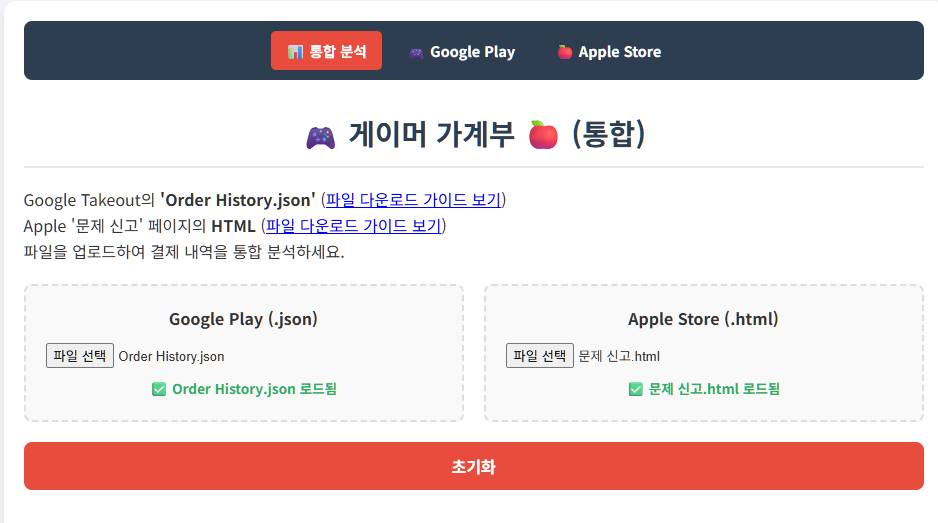
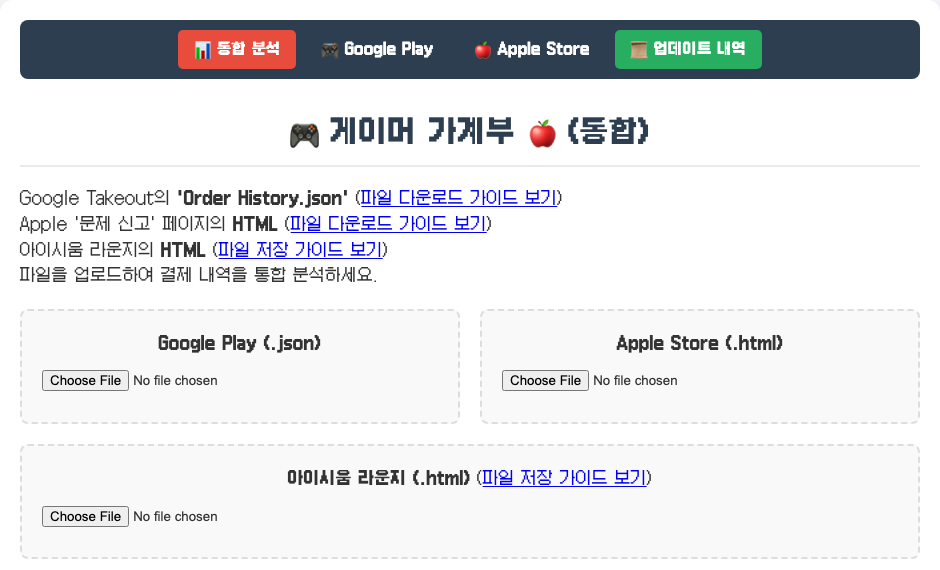
docs: README 최신화 및 미리보기 개선

diff --git a/README.md b/README.md
@@ -1,130 +1,213 @@
-# 🎮 게이머 가계부 (Gamer's Expense Tracker)
+<div align="center">
 
-**게이머 가계부**는 Google과 Apple 양대 스토어의 결제 내역을 한곳에서 통합하여 분석하고 관리할 수 있도록 돕는 웹 애플리케이션입니다. 이제 흩어져 있던 지출 내역을 하나의 대시보드에서 시각적으로 확인하고 자신의 게임 소비 패턴을 손쉽게 파악할 수 있습니다.
+<h1>🎮 게이머 가계부</h1>
+<p><strong>얼마를 썼는지, 어떤 구성품을 모았는지 한눈에.</strong><br>Google Play · Apple Store · 아이시움 라운지의 결제 내역을 한곳에서 확인하세요.</p>
 
-![image](readme01.png)
-![image](readme02.png)
-![image](readme03.png)
+<p>
+  <img src="https://img.shields.io/badge/JavaScript-Vanilla-F7DF1E?logo=javascript&logoColor=222222" alt="Vanilla JavaScript">
+  <img src="https://img.shields.io/badge/결제_파일-브라우저에서_처리-356552" alt="결제 파일은 브라우저에서 처리">
+  <img src="https://img.shields.io/badge/누적_보물창고-BETA-D99A24" alt="누적 보물창고 베타">
+</p>
 
-## ✨ 주요 기능
+<p>
+  <a href="https://ghsgkq.github.io/Gamer-Expense-Tracker/"><strong>🚀 바로 사용하기</strong></a>
+  &nbsp;·&nbsp;
+  <a href="#시작하기">사용 방법</a>
+  &nbsp;·&nbsp;
+  <a href="https://github.com/ghsgkq/Gamer-Expense-Tracker">GitHub</a>
+  &nbsp;·&nbsp;
+  <a href="mailto:ckdgus5820@gmail.com">문의·오류 제보</a>
+</p>
 
-### 📊 **통합 분석 대시보드 (핵심 기능)**
+</div>
 
-  - **하나의 페이지에서 모든 것을\!**: `Google Play(.json)`, `Apple Store(.html)`, 그리고 `아이시움 라운지(.html)` 결제 내역 파일을 한 페이지에 모두 업로드하여 모든 지출을 통합된 데이터로 분석할 수 있습니다.
-  - **플랫폼별 독립 분석**: 상단 탭 전환을 통해 전체/구글/애플/아이시움의 결제 데이터를 탭 이동만으로 손쉽게 전환하며 분리 분석할 수 있습니다. 탭을 이동해도 업로드한 파일은 그대로 유지되며, '초기화' 버튼을 누를 때만 지워집니다.
+---
 
-### 🧾 **상세 분석 기능 (공통)**
+여러 스토어에 흩어진 결제 내역을 파일로 불러오면 **게임별 지출, 월별 변화, 전체 소비 분포**를 확인할 수 있습니다. 트릭컬 리바이브에서는 패키지의 **구성품·아이콘**을 펼쳐 보고, **나의 누적 보물창고**에서 아이템별 합계도 살펴볼 수 있습니다.
 
-  - **💱 다중 통화 지원**:
+**[미리보기](#미리보기) · [주요 기능](#주요-기능) · [트릭컬 전용 기능](#트릭컬-전용-기능) · [개인정보](#개인정보-처리) · [개발 안내](#개발-및-데이터-관리)**
 
-      - 결제 내역에 포함된 원화(₩), 달러($), 엔(¥) 등 다양한 통화를 자동으로 감지합니다.
-      - 감지된 통화 목록이 드롭다운 메뉴로 제공되며, 원하는 통화를 선택하면 모든 요약, 차트, 내역이 해당 통화 기준으로 필터링되어 표시됩니다.
+## 미리보기
 
-  - **📝 사용자 정의 키워드 관리**:
+**🎒 패키지 속 구성품을 모아 보는 나의 누적 보물창고**
 
-      - '기타'로 분류된 항목을 원하는 앱으로 재분류할 수 있도록 사용자가 직접 키워드를 추가하고 관리할 수 있습니다.
-      - 앱 이름과 관련 키워드를 등록하고, 개별 키워드 또는 앱 전체를 삭제할 수 있습니다.
-      - 키워드 목록이 길어질 경우를 대비해 실시간 검색 기능도 제공합니다.
-      - 추가·삭제한 키워드는 브라우저에 자동 저장되어 새로고침 후에도 유지되며, '기본값 복원' 버튼으로 언제든 초기 사전으로 되돌릴 수 있습니다.
+![베타 표시, 주요 재화별 아이콘·누적 수량과 전체 구성품 보기를 제공하는 보물창고](readme02.png)
 
-  - **💰 전체 결제 내역 요약**: 선택된 통화를 기준으로 모든 스토어의 총결제액과 가장 많은 금액을 지출한 '톱 스펜딩 게임'을 한눈에 보여줍니다.
+> 아래 화면을 포함한 README의 스크린샷은 **가상 결제 데이터**로 만든 예시입니다. 실제 개인 결제 파일을 사용하지 않았습니다.
 
-  - **📈 전체 통계 시각화**: 
-    - **소비 추이 (꺾은선/막대)**: 선택된 통화를 기준으로 상위 게임들의 결제액 누적 추이(6개 월 단위 꺾은선) 및 연도별 결제 합계(누적 막대)를 표시합니다.
-    - **🍩 소비 분포 (도넛 차트)**: 지출액 상위 6개 게임의 소비 점유 비중(%)을 보여주며, 가독성을 위해 나머지 군소 게임은 '기타'로 통합 집계하여 시각화합니다.
+<details>
+<summary><strong>📊 파일 업로드와 결제 통계 화면도 보기</strong></summary>
 
-  - **📥 결제 내역 엑셀 내보내기**:
-    - **전체 내역 추출**: 업로드한 모든 플랫폼의 결제 내역을 모아 엑셀 파일(`.xlsx`)로 내보냅니다.
-    - **개별 게임 내역 추출**: 특정 게임 상세 내역 화면에서 현재 보고 있는 게임의 거래 내역만 골라 엑셀 파일로 저장합니다.
-    - **통화별 총액 자동 집계**: 화폐 단위(₩, $, ¥ 등)가 섞여 있어도 왜곡이 없도록 시트 맨 하단에 통화별 합계 요약 행을 자동 추가하며, 텍스트가 잘리지 않도록 열 너비가 자동 최적화됩니다.
+<br>
 
-  - **🔍 게임별 상세 분석**:
+**세 가지 스토어의 파일을 한 페이지에서 불러오기**
 
-      - 월별 결제액 요약 및 상세 내역을 아코디언 UI로 제공합니다.
-      - 월별 지출액 변동 추이를 막대그래프로 시각화합니다.
-      - 상품명 검색 및 최신순 정렬을 지원하는 전체 결제 내역 테이블을 제공합니다.
+![Google Play, Apple Store, 아이시움 라운지 업로드를 지원하는 메인 화면](readme01.png)
 
-  - **⭐ 특정 게임 맞춤 분석 (트릭컬 리바이브)**: '트릭컬 리바이브'를 선택하고 통화가 원화(KRW)일 경우, 주요 과금 상품에 대한 별도 요약 및 전용 필터링 기능을 제공합니다.
+**게임별 지출 흐름과 소비 분포 비교하기**
 
-  - **📦 트릭컬 리바이브 패키지 구성품**: 월별 내역과 전체 결제 내역의 상품명 아래에서 '구성품 보기'를 펼치면 아이템 이름·수량·아이콘을 확인할 수 있습니다.
-    - `product/trickcal-revive/products.json`의 상품명과 매칭하며, Google 결제 상품명의 게임 접미사와 띄어쓰기 차이를 정규화합니다.
-    - 영수증의 `트릭컬 패스1`은 `트릭컬 패스`로, `리바이브 패스`는 `개쩜 패스`로, `리바이브 패스[할인]`은 `개쩜 패스[할인]`으로 연결합니다. 결제 내역의 원래 이름은 유지하며 판매기간 비교와 누적 합산에 동일하게 적용합니다.
-    - 같은 이름의 상품이 여러 개면 결제일과 `판매 시작일`·`종료일`을 비교합니다. 시작일과 종료일을 모두 포함하며, 해당 기간의 항목을 날짜 미확인 항목보다 우선합니다. 띄어쓰기가 다른 이름도 함께 비교합니다.
-    - 맞는 판매기간이 없으면 날짜 미확인 항목만 후보로 남깁니다. 모든 후보의 기간이 결제일과 맞지 않으면 별도로 안내하고 합산에서 제외합니다. 단일 상품은 이름으로 연결합니다.
-    - 기간 비교 후에도 여러 구성이 있으면 현금 상품의 가격을 비교하고, 그래도 구분되지 않으면 구성품 후보와 각 판매기간을 표시합니다.
-    - 선택적 `매핑정보.영수증상품명후보` 별칭을 지원하며 직접 일치하는 상품명을 우선합니다. 판매기간으로 연결할 수 없고 `추정시즌`이 있는 경우에만 결제월로 시즌을 추정하고 이를 표시합니다.
-    - `패스보상` 정보가 있으면 구매 보상과 전체 단계 달성 기준의 유료 단계 보상을 나누어 보여줍니다. 무료·조건 미확인 보상은 제외하고 업그레이드의 기존 단계 보상은 중복 포함하지 않습니다. 해당 정보가 없으면 JSON의 구성품 목록을 그대로 사용합니다.
-    - 반복된 구성품은 수량을 합산하며, 가격이 없고 구성품이 비어 있는 상품도 '상품명 확인 · 구성품 정보 미확보'로 구분합니다.
-    - 등록되지 않은 상품은 안내 문구를 표시하며, 아이콘이 없는 구성품도 이름과 수량을 보여줍니다.
-    - 국내 '트릭컬 리바이브' 상세 화면에서만 제공합니다.
+![게임별 누적 결제 추이와 지출 비중을 보여주는 통계 차트](readme03.png)
 
-  - **🎒 나의 누적 보물창고 (베타)**: 트릭컬 리바이브를 선택하면 대시보드 상단에서 아이템별 누적 구성품을 아이콘·수량과 함께 확인할 수 있습니다.
-    - 베타 기능으로 상품 매핑이나 수량 합산이 실제 구매·수령 내역과 맞지 않는 부분이 있을 수 있습니다. 참고용으로 확인해주세요.
-    - 선택한 플랫폼·연도·통화의 결제 내역을 기준으로 합산하며, 주요 재화 카드와 전체 아이템 검색·정렬을 제공합니다.
-    - 단일 구성품 후보만 합산하고, 복수 후보·구성품 미확보·미등록 상품·판매기간 불일치는 제외 내역으로 보여줍니다. 상품 목록 기준의 추정치이며 패스 보상은 전체 단계 달성 기준입니다.
-    - 공유 보상 정보가 제공되면 같은 시즌의 공유 패스 단계 보상은 한 번만 합산하고 구매 보상은 각 결제에 반영합니다. 공유 단계 구성에 충돌이 있으면 해당 단계 합산을 보류합니다.
+</details>
 
-### 📱 **모바일 환경 최적화**
+## 시작하기
 
-  - **반응형 디자인**: 스마트폰과 같은 작은 화면에서도 모든 기능이 자연스럽게 보이고 사용하기 편하도록 디자인되었습니다.
-  - **카드형 테이블**: 화면이 좁아지면 '월별 결제 내역'과 '전체 결제 내역'의 테이블이 가로 스크롤 없는 깔끔한 카드 형태로 자동 전환되어 가독성을 높였습니다.
+별도의 회원가입이나 설치 없이 [웹에서 바로 사용](https://ghsgkq.github.io/Gamer-Expense-Tracker/)할 수 있습니다.
 
-## 📁 프로젝트 구조
+| 결제 내역 | 준비할 파일 | 저장 방법 |
+| --- | --- | --- |
+| 🎮 Google Play | Google Takeout의 `Order History.json` | [다운로드 가이드](https://ghsgkq.github.io/Gamer-Expense-Tracker/guide/guide.html) |
+| 🍎 Apple Store | Apple ‘문제 신고’ 페이지의 `.html` 또는 `.htm` | [페이지 저장 가이드](https://ghsgkq.github.io/Gamer-Expense-Tracker/guide/apple_guide.html) |
+| 💎 아이시움 라운지 | 결제 내역 페이지의 `.html` 또는 `.htm` | [페이지 저장 가이드](https://ghsgkq.github.io/Gamer-Expense-Tracker/guide/icium_guide.html) |
 
-유지보수와 확장성을 높이기 위해 파일을 기능별로 분리했습니다.
+1. **파일 불러오기** — 해당 스토어의 업로드 칸에 파일을 선택합니다. 한 종류만 올려도 사용할 수 있습니다.
+2. **통화와 게임 선택하기** — 전체 요약을 확인한 뒤, 원하는 앱·게임과 연도를 골라 상세 내역을 봅니다.
+3. **결제 내역 살펴보기** — 월별 내역을 펼치거나 상품명으로 검색합니다. 트릭컬 리바이브는 구성품과 누적 보물창고도 확인할 수 있습니다.
+4. **필요한 내역 저장하기** — 전체 내역 또는 현재 게임의 내역을 엑셀 파일로 내려받습니다.
 
+상단의 **통합 분석 / Google Play / Apple Store** 탭을 바꾸어도 불러온 데이터는 유지됩니다. 아이시움 내역은 통합 분석에 포함됩니다. 새로고침하거나 **초기화**하면 결제 파일을 다시 불러와야 합니다.
+
+## 주요 기능
+
+| 기능 | 확인할 수 있는 내용 |
+| --- | --- |
+| 💰 통합 요약 | 선택한 통화의 총결제액과 가장 많이 지출한 게임 |
+| 📈 소비 추이 | 게임별 누적 지출 흐름과 연도별 결제 합계 |
+| 🍩 지출 분포 | 상위 게임의 소비 비중과 기타 게임 합계 |
+| 🔍 게임별 상세 분석 | 연도 선택, 월별 아코디언, 상품명 검색, 최신순 결제 내역 |
+| 💱 통화별 집계 | 원화·달러·엔·유로 등을 통화별로 구분해서 확인. 환율 환산은 하지 않습니다. |
+| 📝 키워드 관리 | 앱·게임 분류 키워드 추가·삭제·검색, 브라우저 저장, 기본값 복원 |
+| 📥 엑셀 내보내기 | 전체 또는 현재 게임의 결제 내역, 통화별 합계, 열 너비 자동 조정 |
+| 📱 모바일 화면 | 작은 화면에 맞춘 차트 배치와 카드 형태의 결제 내역 |
+
+## 트릭컬 전용 기능
+
+국내 **트릭컬 리바이브**를 선택하면 패키지 구성품과 보물창고가 나타납니다. 원화에서는 데일리 공물·패스 등의 별도 결제 요약과 전용 필터도 사용할 수 있습니다.
+
+### 📦 결제한 패키지의 구성품 보기
+
+월별 내역과 전체 결제 내역에서 **구성품 보기**를 펼치면 아이템 이름·수량·아이콘을 확인할 수 있습니다.
+
+- **상품명 연결** — 게임 접미사와 띄어쓰기 차이를 정리해 공개 상품 목록과 비교합니다.
+- **판매기간 비교** — 같은 이름의 상품이 여러 개면 결제일이 판매 시작일~종료일에 포함되는 구성을 우선합니다. 시작일과 종료일 모두 포함합니다.
+- **후보 안내** — 구분되지 않는 구성은 후보로 보여주고, 미등록·구성품 미확보·판매기간 불일치는 따로 안내합니다.
+- **아이콘 표시** — 등록된 아이콘을 사용하며, 아이콘이 없는 아이템도 이름과 수량은 표시합니다.
+
+확인된 패스 이름은 아래와 같이 연결합니다. 결제 내역의 원래 표기는 유지합니다.
+
+| 영수증에 표시된 이름 | 연결할 상품 |
+| --- | --- |
+| `트릭컬 패스1` | `트릭컬 패스` |
+| `리바이브 패스` | `개쩜 패스` |
+| `리바이브 패스[할인]` | `개쩜 패스[할인]` |
+
+### 🎒 나의 누적 보물창고 · BETA
+
+선택한 **스토어·연도·통화**의 결제 내역에서 구성품을 합산합니다. 주요 재화는 카드로 보여주고, 전체 아이템은 **이름 검색 / 수량순 / 이름순**으로 살펴볼 수 있습니다.
+
+> **베타 기능입니다.** 상품 매핑이나 수량 합산이 실제 구매·수령 내역과 맞지 않는 부분이 있을 수 있습니다. 상품 목록 기준의 참고용 추정치이며, 패스 단계 보상은 **전체 단계 달성 시 최대 보상** 기준입니다.
+
+단일 구성으로 연결된 결제만 합산합니다. 여러 후보가 남거나 구성품을 확인할 수 없는 결제는 **합산에서 제외한 결제**에서 확인할 수 있습니다.
+
+<details>
+<summary><strong>매핑과 합산의 상세 기준</strong></summary>
+
+- 상품명 후보가 하나뿐이면 이름으로 연결합니다.
+- 같은 이름의 후보가 여러 개면 판매기간에 맞는 항목을 날짜 미확인 항목보다 우선합니다. 맞는 기간이 없으면 날짜 미확인 후보만 남깁니다. 모든 후보의 기간이 맞지 않으면 합산에서 제외합니다.
+- 기간 비교 후에도 후보가 여러 개면 원화 현금 가격을 비교합니다. 할인이나 부분 환불로 가격이 달라도 이름 매칭을 유지하며, 최종 구성이 여러 개면 후보로 표시합니다.
+- `매핑정보.영수증상품명후보`가 제공되면 별칭을 지원합니다. 판매기간으로 연결되지 않고 `추정시즌`이 있으면 결제월로 시즌을 추정하고 이를 표시합니다.
+- `패스보상`이 있으면 구매 보상과 유료 단계 최대 보상을 구분합니다. 무료·조건 미확인 보상은 제외하고 업그레이드의 기존 단계 보상은 중복 포함하지 않습니다. 해당 정보가 없으면 JSON의 구성품 목록을 사용합니다.
+- 공유 보상 정보가 있으면 같은 시즌의 공유 패스 단계 보상은 한 번만 합산합니다. 구매 보상은 결제마다 반영하고, 공유 단계 구성에 충돌이 있으면 그 단계의 합산을 보류합니다.
+
+</details>
+
+## 개인정보 처리
+
+- **결제 파일은 브라우저 메모리에서 처리합니다.** 애플리케이션이 업로드한 원본을 별도 서버로 전송하지 않습니다.
+- **분류 키워드 설정만 브라우저에 저장합니다.** 새로고침 후에도 사용자 키워드는 유지되지만 결제 파일은 다시 불러와야 합니다.
+- 차트·엑셀 라이브러리와 폰트는 CDN에서 불러옵니다. 상품 목록과 업데이트 내역은 공개 데이터입니다.
+- 개인 결제 파일을 이 저장소에 추가하지 마세요. `.gitignore`에 `Order History*.json`과 `Takeout/` 제외 규칙을 포함합니다.
+
+## 최근 변경
+
+| 날짜 | 변경 내용 |
+| --- | --- |
+| 2026-10-08 | 연말결산 탭·페이지·전용 이미지 및 영상 제거, 통합 분석 중심으로 정리 |
+| 2026-10-08 | 판매 시작일·종료일 기반 패키지 매핑, 패스 상품명 연결, 문의·GitHub 링크 추가 |
+| 2026-10-08 | 파일 직접 열기 환경의 업데이트 내역 로딩 수정, 보물창고 베타 안내 추가 |
+| 2026-10-07 | 패키지 구성품·아이콘 표시, 누적 보물창고와 전체 아이템 검색·정렬 추가 |
+
+더 자세한 내역은 서비스 상단 **📜 업데이트 내역** 또는 [updates.json](updates.json)에서 확인할 수 있습니다.
+
+## 개발 및 데이터 관리
+
+HTML·CSS·Vanilla JavaScript로 구성된 정적 웹 앱입니다. 별도의 빌드나 패키지 설치 없이 실행할 수 있습니다. 차트는 **Chart.js**, 엑셀 내보내기는 **SheetJS**를 사용합니다.
+
+### 로컬 실행
+
+저장소를 내려받아 `index.html`을 브라우저에서 직접 열면 됩니다. 로컬 HTTP 서버를 사용하려면 프로젝트 폴더에서 실행하세요.
+
+```sh
+python3 -m http.server 8000
 ```
+
+브라우저에서 `http://localhost:8000`으로 접속합니다. **직접 파일 열기와 HTTP 환경 모두 구성품·아이콘·업데이트 내역을 지원**합니다.
+
+### 공개 데이터 수정
+
+| 수정할 원본 | 함께 갱신할 파일 | 생성 명령 |
+| --- | --- | --- |
+| `product/trickcal-revive/products.json` · `component-icons/icon-mapping.json` | `product/trickcal-revive/catalog.js` | `node scripts/build-trickcal-catalog.cjs` |
+| `updates.json` | `js/updateHistoryData.js` | `node scripts/build-update-history.cjs` |
+
+HTTP 환경에서는 원본 JSON을 우선 사용합니다. 파일 직접 열기에서는 생성된 스크립트 데이터를 사용하므로 **원본을 변경한 뒤에는 생성 명령도 실행해주세요.** 업데이트 JSON 요청이 실패하면 함께 제공된 업데이트 데이터를 사용합니다.
+
+생성 스크립트는 공개 상품·공지 데이터만 읽으며 개인 결제 파일을 참조하지 않습니다.
+
+### 검증
+
+Node.js가 설치된 환경에서 실행합니다.
+
+```sh
+node --test tests/*.test.cjs
+node scripts/build-trickcal-catalog.cjs --check
+node scripts/build-update-history.cjs --check
+```
+
+개인 파일을 추가 검증하려면 저장소 밖 원본의 경로를 `GAMER_TEST_ORDER_HISTORY` 환경 변수로 지정합니다. 해당 테스트는 파일을 메모리에서만 읽고 주문 정보·상품별 구매 내역을 출력하지 않습니다. 환경 변수를 지정하지 않으면 이 테스트는 건너뜁니다.
+
+<details>
+<summary><strong>📁 프로젝트 구조</strong></summary>
+
+```text
 .
-├── index.html              # 통합 분석 페이지 (메인 대시보드)
-├── css/
-│   └── style.css           # 모든 페이지에 적용되는 공용 스타일시트
+├── index.html                        # 통합 분석 대시보드
+├── css/style.css                     # 반응형 화면과 구성품 스타일
 ├── js/
-│   ├── appKeywords.js      # 게임 이름 분류를 위한 키워드 사전 데이터
-│   ├── parsers.js          # Google/Apple/아이시움 데이터 파싱 및 병합 로직
-│   ├── common.js           # 공용 로직: 파일 업로드·병합, 키워드 저장, 업데이트 모달, 이스케이프
-│   ├── main.js             # 메인 대시보드 상태 관리, 필터링, 차트 렌더링
-│   ├── trickcalProducts.js # 트릭컬 패키지 구성품 매칭 및 아이콘 표시
-│   ├── trickcalInventory.js # 아이템별 누적 합산 및 보물창고 화면
-│   └── updateHistoryData.js # 파일 직접 열기용 자동 생성 업데이트 데이터
+│   ├── appKeywords.js                # 게임 분류 키워드
+│   ├── parsers.js                    # Google·Apple·아이시움 파서
+│   ├── common.js                     # 파일 처리·키워드 저장·업데이트 모달
+│   ├── main.js                       # 대시보드·필터·차트·엑셀 내보내기
+│   ├── trickcalProducts.js           # 패키지 매칭·구성품·아이콘
+│   ├── trickcalInventory.js          # 누적 보물창고
+│   └── updateHistoryData.js          # 자동 생성 업데이트 데이터
 ├── product/trickcal-revive/
-│   ├── products.json       # 공개 상품 카탈로그 (개인 결제 내역과 별개)
-│   ├── catalog.js          # 파일 직접 열기를 지원하는 자동 생성 상품 데이터
-│   └── component-icons/   # 구성품 아이콘 및 icon-mapping.json
-└── guide/
-    ├── apple_guide.html    # Apple Store 구매 내역 다운로드 가이드 페이지
-    ├── guide.html          # Google Play 구매 내역 다운로드 가이드 페이지
-    └── icium_guide.html    # 아이시움 라운지 결제 내역 저장 가이드 페이지
+│   ├── products.json                 # 공개 상품 목록
+│   ├── catalog.js                    # 자동 생성 상품 데이터
+│   └── component-icons/              # 아이콘과 icon-mapping.json
+├── guide/                            # 스토어별 파일 저장 가이드
+├── image/                            # 가이드용 스크린샷
+├── scripts/                          # 공개 데이터 생성 스크립트
+├── tests/                            # 상품 매핑·업데이트 검증
+└── updates.json                      # 업데이트 내역 원본
 ```
 
-## 🚀 사용 방법
+</details>
 
-1.  `index.html`을 브라우저에서 직접 엽니다. 또는 프로젝트 폴더에서 `python3 -m http.server 8000`을 실행하고 `http://localhost:8000`을 엽니다. 업데이트 내역은 두 방식 모두 지원합니다.
-2.  상단 탭에서 원하는 모드(통합 분석 / Google Play / Apple Store)를 선택합니다.
-3.  `Order History.json` (Google), `문제 신고.html` (Apple) 또는 아이시움 라운지 `HTML` 파일을 업로드합니다. (하나만 올려도 분석 가능)
-4.  데이터가 분석되면 하단에서 차트와 상세 내역을 확인합니다.
+## 문의
 
------
+문의사항이나 잘못 연결된 구성품을 발견하면 **[ckdgus5820@gmail.com](mailto:ckdgus5820@gmail.com)**으로 알려주세요. 오류 제보에는 증상·상품명·결제일처럼 확인에 필요한 정보만 보내고, 주문번호·계정 정보 등 불필요한 개인정보는 가려주세요.
 
-  - **Google 데이터**: [Google Takeout](https://takeout.google.com/) → 'Google Play 스토어' → `Order History.json` 다운로드
-  - **Apple 데이터**: [Apple 문제 신고](https://reportaproblem.apple.com/) → 전체 내역이 보일 때까지 스크롤 → 페이지 저장 (HTML)
-  - **아이시움 데이터**: 아이시움 라운지 로그인 → 결제 내역 페이지 → 페이지 저장 (HTML)
+본 프로젝트는 개인이 제작한 비공식 팬 도구이며, 게임사 및 스토어의 공식 서비스가 아닙니다. 게임명·이미지·리소스의 권리는 각 권리자에게 있습니다.
 
-## 🛠 사용 기술
-
-  - **HTML5 / CSS3** (반응형 그리드 및 모바일 친화형 카드 레이아웃)
-  - **JavaScript (Vanilla ES6)** (클라이언트 사이드 SPA 및 데이터 파싱)
-  - **Chart.js** (누적 추이 라인 차트, 연간 합계 스택 바 차트, 지출 분포 도넛 차트 시각화)
-  - **SheetJS (xlsx)** (결제 내역 엑셀 내보내기 및 자동 열 너비 보정 지원)
-
-## 검증
-
-`updates.json`을 수정하면 `node scripts/build-update-history.cjs`로 파일 직접 열기용 `js/updateHistoryData.js`도 갱신합니다. `node scripts/build-update-history.cjs --check`로 원본과의 일치를 확인합니다. HTTP에서는 최신 JSON을 우선하고, 파일 직접 열기나 JSON 요청 실패 시 생성된 데이터를 사용합니다. `node --test tests/updateHistory.test.cjs`로 검증할 수 있습니다.
-
-상품 JSON이나 아이콘 매핑을 수정하면 `node scripts/build-trickcal-catalog.cjs`를 실행해 파일 직접 열기용 `catalog.js`도 갱신합니다. `node scripts/build-trickcal-catalog.cjs --check`로 원본과의 일치를 확인할 수 있습니다. HTTP 환경은 원본 JSON을 읽고, `index.html`을 직접 여는 환경은 자동 생성 데이터를 읽습니다. 생성기는 공개 상품 JSON만 읽으며 개인 결제 파일은 참조하지 않습니다.
-
-`node --test tests/trickcalProducts.test.cjs`로 패키지 매칭과 구성품 표시를 검증할 수 있습니다. 실제 결제 파일로 추가 검증하려면 `GAMER_TEST_ORDER_HISTORY` 환경 변수에 저장소 밖 원본 파일의 경로를 지정합니다. 검증은 파일을 메모리에서만 읽고, 주문 정보나 상품별 구매 내역을 출력하지 않습니다. 개인 결제 파일을 테스트 fixture로 복사하거나 커밋하지 마세요.
-
-## 문의 및 소스 코드
-
-- 문의사항·오류 제보: [ckdgus5820@gmail.com](mailto:ckdgus5820@gmail.com)
-- GitHub: [Gamer-Expense-Tracker](https://github.com/ghsgkq/Gamer-Expense-Tracker)
+[🌐 서비스 열기](https://ghsgkq.github.io/Gamer-Expense-Tracker/) · [💻 GitHub 저장소](https://github.com/ghsgkq/Gamer-Expense-Tracker) · [📜 업데이트 기록](updates.json)
